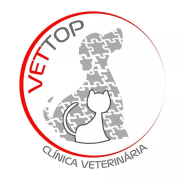
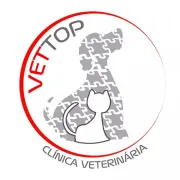
Optimize images: convert to WebP, resize to display dimensions
97%+ size reduction across all images. Dict and component refs updated.
Favicon/manifest PNGs preserved.

diff --git a/app/[lang]/_components/hero.tsx b/app/[lang]/_components/hero.tsx
@@ -177,7 +177,7 @@ export default function Hero({ dict }: { dict: HeroDict }) {
               {/* Main large circle */}
               <div className="absolute left-1/2 top-1/2 h-36 w-36 -translate-x-[55%] -translate-y-[55%] overflow-hidden rounded-full ring-4 ring-white shadow-2xl sm:h-52 sm:w-52 lg:h-[22rem] lg:w-[22rem]">
                 <Image
-                  src="/gallery/1.jpg"
+                  src="/gallery/1.webp"
                   alt="Veterinarian with pet"
                   fill
                   sizes="(min-width: 640px) 256px, 208px"
@@ -188,7 +188,7 @@ export default function Hero({ dict }: { dict: HeroDict }) {
               {/* Secondary circle */}
               <div className="absolute right-0 top-1/2 h-24 w-24 -translate-y-[30%] overflow-hidden rounded-full ring-4 ring-white shadow-xl sm:h-36 sm:w-36 lg:h-52 lg:w-52">
                 <Image
-                  src="/gallery/2.jpg"
+                  src="/gallery/2.webp"
                   alt="Happy pet"
                   fill
                   sizes="(min-width: 640px) 176px, 144px"
@@ -199,7 +199,7 @@ export default function Hero({ dict }: { dict: HeroDict }) {
               {/* Small accent circle */}
               <div className="absolute bottom-6 left-8 h-16 w-16 overflow-hidden rounded-full ring-4 ring-white shadow-lg sm:h-24 sm:w-24 lg:bottom-8 lg:left-8 lg:h-40 lg:w-40">
                 <Image
-                  src="/gallery/3.jpg"
+                  src="/gallery/3.webp"
                   alt="Clinic interior"
                   fill
                   sizes="112px"

diff --git a/app/[lang]/_components/about.tsx b/app/[lang]/_components/about.tsx
@@ -35,7 +35,7 @@ export default function About({ dict }: { dict: AboutDict }) {
             animate={inView ? { opacity: 1, x: 0 } : {}}
             transition={{ duration: 0.7, ease: [0.16, 1, 0.3, 1] }}
           >
-            <Image src="/about/about.jpg" alt="About us" fill sizes="(max-width: 1024px) 100vw, 50vw" className="object-cover" />
+            <Image src="/about/about.webp" alt="About us" fill sizes="(max-width: 1024px) 100vw, 50vw" className="object-cover" />
           </motion.div>
 
           <motion.div

diff --git a/app/[lang]/_components/google-reviews.tsx b/app/[lang]/_components/google-reviews.tsx
@@ -23,9 +23,9 @@ function StarIcon({ className }: { className?: string }) {
 }
 
 const PET_PORTRAITS = [
-  { src: "/reviews/pet-1.jpg", alt: "Happy dog" },
-  { src: "/reviews/pet-2.jpg", alt: "Content cat" },
-  { src: "/reviews/pet-3.jpg", alt: "Playful puppy" },
+  { src: "/reviews/pet-1.webp", alt: "Happy dog" },
+  { src: "/reviews/pet-2.webp", alt: "Content cat" },
+  { src: "/reviews/pet-3.webp", alt: "Playful puppy" },
 ];
 
 export default function GoogleReviews({ dict }: { dict: GoogleReviewsDict }) {
